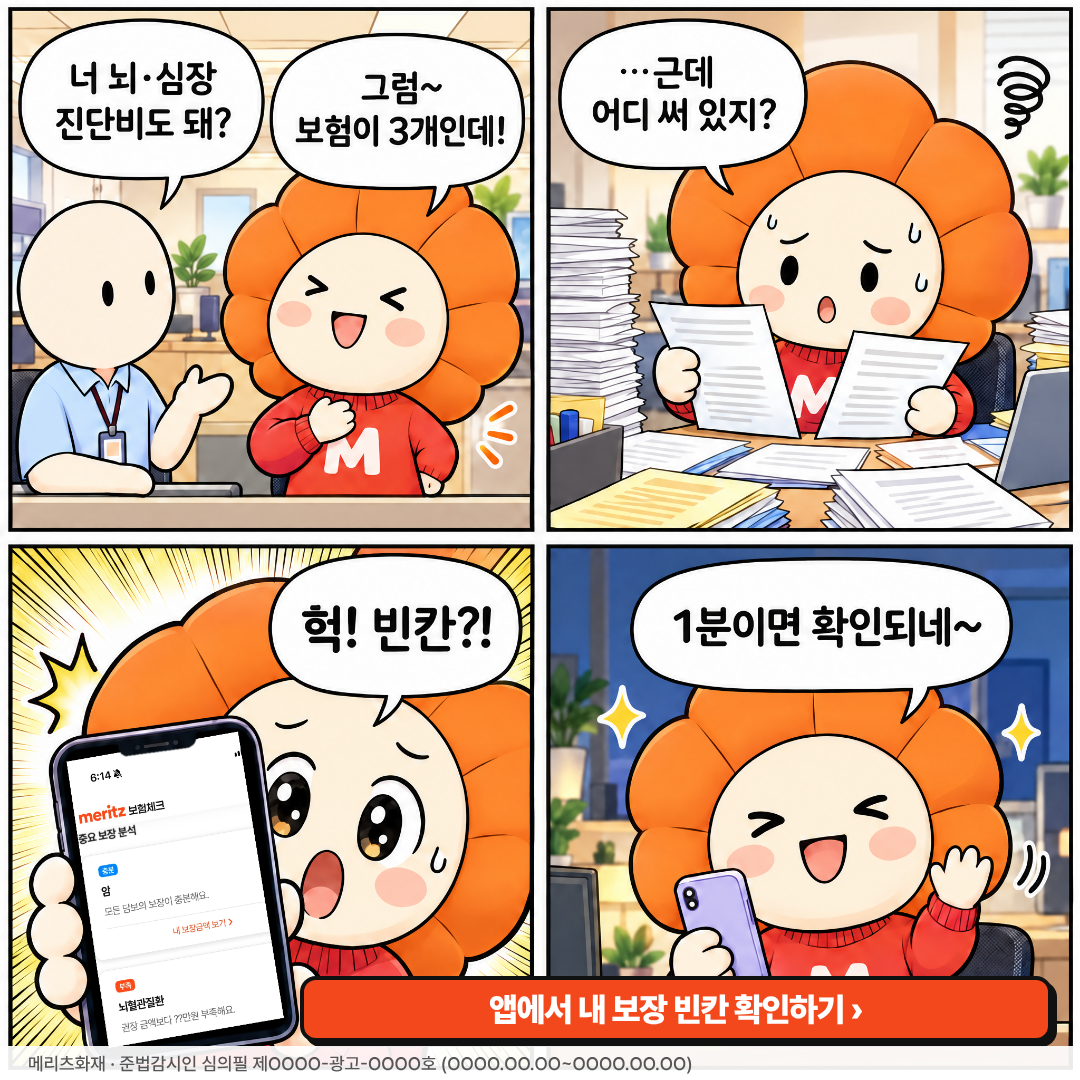
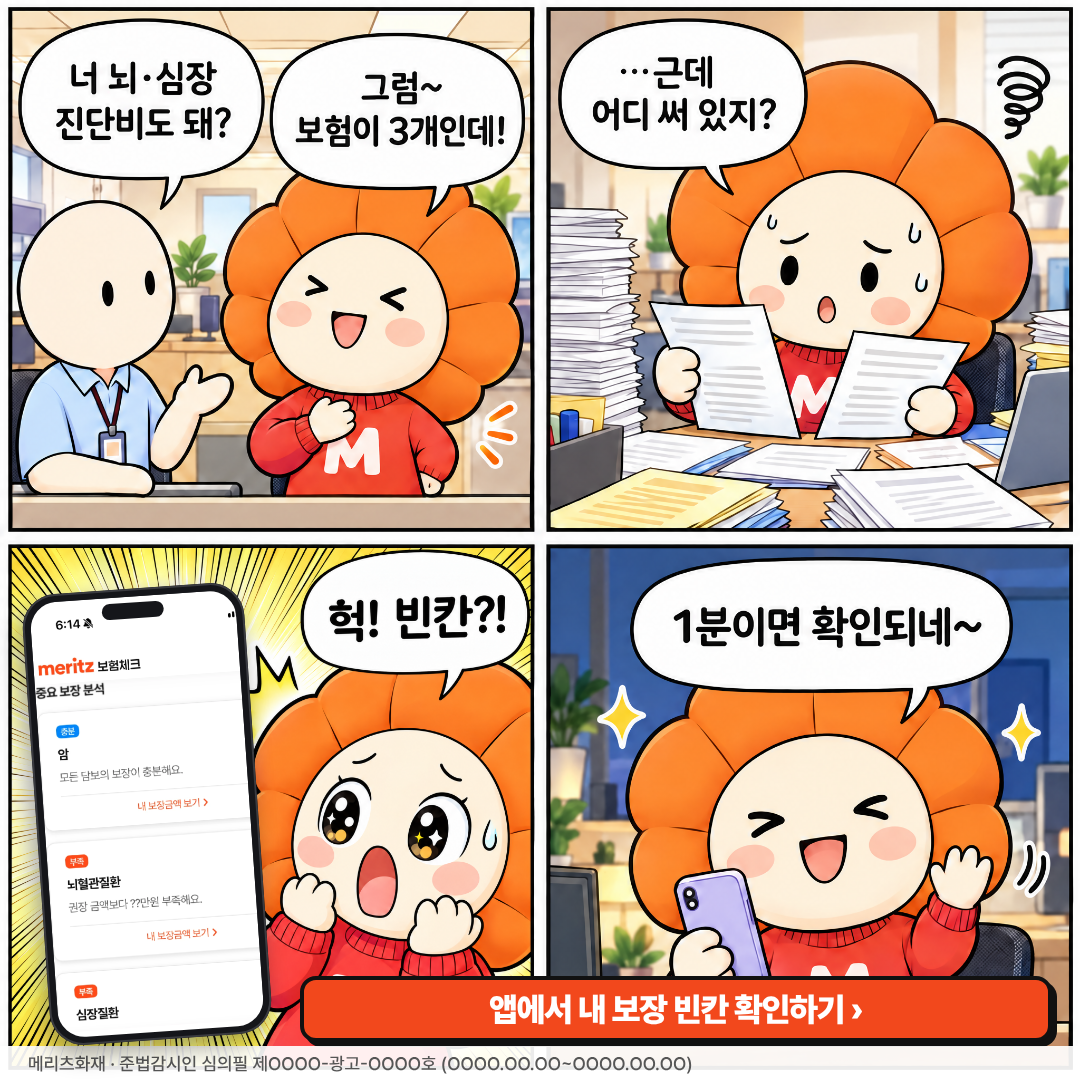
Meta APP 보장분석: panel 3 redrawn — Meri reacts to phone mockup with real 보험체크 screen
Claude-Session: https://claude.ai/code/session_013e8rDmejoULvKZjUJrMpP5

Changed region(s): [[0.0, 0.4889, 0.4889, 1.0]]

diff --git a/creatives/meta_app_bojang_2026-11-10/native_1x1/src/T4_B.html b/creatives/meta_app_bojang_2026-11-10/native_1x1/src/T4_B.html
@@ -1,0 +1,10 @@
+<!doctype html><html><head><meta charset="utf-8"><style>@font-face{font-family:P;src:url(fontp/Pretendard-Black.otf);font-weight:900}@font-face{font-family:P;src:url(fontp/Pretendard-Medium.otf);font-weight:500}
+*{margin:0;padding:0;box-sizing:border-box}
+#a{position:relative;width:1080px;height:1080px;overflow:hidden;font-family:P;background:#fff}
+.cm{position:absolute;left:0;top:0;width:1080px;height:1080px}
+.ph{position:absolute;left:806px;top:768px;width:296px;height:640px;background:#111;border-radius:44px;padding:11px;transform:rotate(-6deg);box-shadow:-12px 16px 34px rgba(0,0,0,.4)}
+.ph .sc{width:100%;height:100%;border-radius:34px;overflow:hidden;background:#fff}
+.ph img{width:100%;display:block}
+.cta{position:absolute;left:300px;width:752px;top:976px;height:66px;background:#F2481C;color:#fff;border:4px solid #111;box-shadow:5px 5px 0 #111;border-radius:16px;display:flex;align-items:center;justify-content:center;font-size:33px;font-weight:900;letter-spacing:-1px}
+.ft{position:absolute;left:0;right:0;bottom:0;height:34px;background:rgba(255,255,255,.92);display:flex;align-items:center;padding-left:28px;font-size:18px;color:#555;font-weight:500}
+.ph{position:absolute;left:36px;top:588px;width:222px;height:452px;background:#15161a;border-radius:34px;padding:8px;transform:rotate(-4deg);box-shadow:-6px 10px 22px rgba(0,0,0,.35),inset 0 0 0 2px #3a3b40}.ph:before{content:"";position:absolute;left:50%;top:14px;width:62px;height:16px;margin-left:-31px;background:#15161a;border-radius:10px;z-index:2}.ph .sc{width:100%;height:100%;border-radius:27px;overflow:hidden;background:#fff}.ph img{width:100%;display:block}</style></head><body><div id="a"><img class="cm" src="pnb.png"><div class="cta">앱에서 내 보장 빈칸 확인하기 ›</div><div class="ft">메리츠화재 · 준법감시인 심의필 제OOOO-광고-OOOO호 (OOOO.OO.OO~OOOO.OO.OO)</div><div class="ph"><div class="sc"><img src="tallB.png"></div></div></div></body></html>

diff --git a/creatives/meta_app_bojang_2026-11-10/native_1x1/src/T4_C.html b/creatives/meta_app_bojang_2026-11-10/native_1x1/src/T4_C.html
@@ -1,0 +1,10 @@
+<!doctype html><html><head><meta charset="utf-8"><style>@font-face{font-family:P;src:url(fontp/Pretendard-Black.otf);font-weight:900}@font-face{font-family:P;src:url(fontp/Pretendard-Medium.otf);font-weight:500}
+*{margin:0;padding:0;box-sizing:border-box}
+#a{position:relative;width:1080px;height:1080px;overflow:hidden;font-family:P;background:#fff}
+.cm{position:absolute;left:0;top:0;width:1080px;height:1080px}
+.ph{position:absolute;left:806px;top:768px;width:296px;height:640px;background:#111;border-radius:44px;padding:11px;transform:rotate(-6deg);box-shadow:-12px 16px 34px rgba(0,0,0,.4)}
+.ph .sc{width:100%;height:100%;border-radius:34px;overflow:hidden;background:#fff}
+.ph img{width:100%;display:block}
+.cta{position:absolute;left:300px;width:752px;top:976px;height:66px;background:#F2481C;color:#fff;border:4px solid #111;box-shadow:5px 5px 0 #111;border-radius:16px;display:flex;align-items:center;justify-content:center;font-size:33px;font-weight:900;letter-spacing:-1px}
+.ft{position:absolute;left:0;right:0;bottom:0;height:34px;background:rgba(255,255,255,.92);display:flex;align-items:center;padding-left:28px;font-size:18px;color:#555;font-weight:500}
+.ph{position:absolute;left:36px;top:588px;width:222px;height:452px;background:#15161a;border-radius:34px;padding:8px;transform:rotate(-4deg);box-shadow:-6px 10px 22px rgba(0,0,0,.35),inset 0 0 0 2px #3a3b40}.ph:before{content:"";position:absolute;left:50%;top:14px;width:62px;height:16px;margin-left:-31px;background:#15161a;border-radius:10px;z-index:2}.ph .sc{width:100%;height:100%;border-radius:27px;overflow:hidden;background:#fff}.ph img{width:100%;display:block}</style></head><body><div id="a"><img class="cm" src="pnc.png"><div class="cta">앱에서 또래 보장 비교하기 ›</div><div class="ft">메리츠화재 · 준법감시인 심의필 제OOOO-광고-OOOO호 (OOOO.OO.OO~OOOO.OO.OO)</div><div class="ph"><div class="sc"><img src="tallC.png"></div></div></div></body></html>
